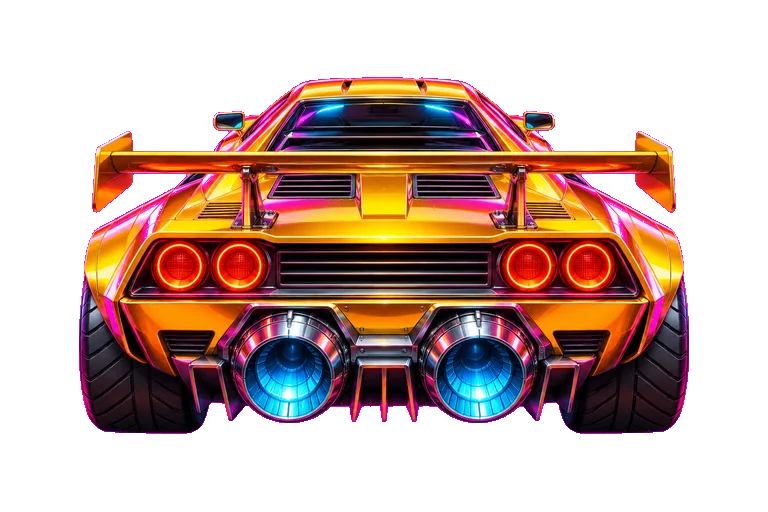
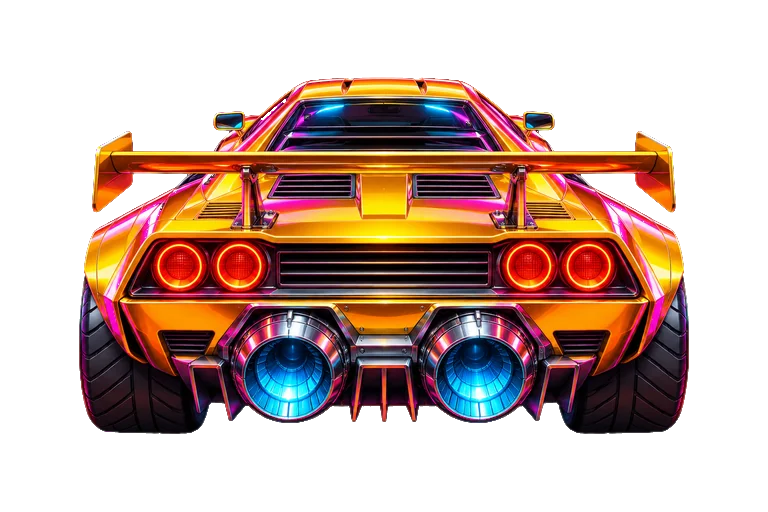
Art : nouveau détourage sans liseré rose (images détourées uniquement) (#3)
finir.py : le magenta caché sous les pixels transparents est remplacé par la couleur
du sujet (le WebP le faisait baver sur le bord), les mélanges sujet + magenta du bord
deviennent transparents, et le détourage passe avant le raccord des bords.
Mêmes noms et mêmes tailles ; les images non détourées ne changent pas.

diff --git a/tools/art/finir.py b/tools/art/finir.py
@@ -1,10 +1,10 @@
 #!/usr/bin/env python3
-"""Kevblast : finit les images brutes de Codex.
+"""Finit les images brutes de Codex.
 Usage : python finir.py PROMPTS_JSON DOSSIER_BRUT DOSSIER_SORTIE [fichier ...]
 - recadre (centre, cover) puis redimensionne à la taille exacte demandée ;
 - si detourer : fond magenta #FF00FF -> transparent (tolérance + bord adouci + suppression du halo rose) ;
 - si raccord: N (dans le JSON) ou RACCORD="nom:N" (environnement), fond les N px des bords gauche/droite (panoramas en boucle) ;
-- enregistre <fichier>.webp qualité 85.
+- enregistre <fichier>.webp qualité 85, ou au chemin « sortie » du JSON (.png accepté, sous-dossiers créés).
 """
 import json, sys
 from pathlib import Path
@@ -37,6 +37,8 @@ def detourer(img):
     for x, y in [(x, 0) for x in range(0, ww, 8)] + [(x, hh - 1) for x in range(0, ww, 8)] + \
                 [(0, y) for y in range(0, hh, 8)] + [(ww - 1, y) for y in range(0, hh, 8)]:
         if proche.getpixel((x, y)) == 255: ImageDraw.floodfill(proche, (x, y), 128)
+    # + les poches de magenta quasi pur enfermées dans le sujet (entre deux pièces, sous un bras…)
+    proche = Image.fromarray(np.where((np.asarray(proche) == 128) | (d < 25), 128, 0).astype(np.uint8))
     fond = np.asarray(proche.point(lambda v: 255 if v == 128 else 0).filter(ImageFilter.MaxFilter(3))) > 0
     alpha = np.where(fond, alpha, 1.0)
     # adoucissement léger du bord
@@ -49,11 +51,13 @@ def detourer(img):
     with np.errstate(divide="ignore", invalid="ignore"):
         rec = (a - (1 - alpha[..., None]) * mag) / np.maximum(alpha[..., None], 1e-3)
     a = np.where(bord[..., None], np.clip(rec, 0, 255), a)
-    # anti-halo : sur les bords, limite r et b au-dessus de g (teinte rose résiduelle)
+    # anti-halo : près du fond (2 px), retire la teinte magenta résiduelle (r et b au-dessus de g)
+    pres = np.asarray(Image.fromarray((fond * 255).astype(np.uint8)).filter(ImageFilter.MaxFilter(5))) > 0
+    zone = pres & (alpha > 0)
     spill = np.minimum(a[..., 0], a[..., 2]) - a[..., 1]
-    lim = bord & (spill > 40)
-    a[..., 0] = np.where(lim, a[..., 0] - (spill - 40) * 0.5, a[..., 0])
-    a[..., 2] = np.where(lim, a[..., 2] - (spill - 40) * 0.5, a[..., 2])
+    lim = zone & (spill > 10)
+    a[..., 0] = np.where(lim, a[..., 0] - (spill - 10), a[..., 0])
+    a[..., 2] = np.where(lim, a[..., 2] - (spill - 10), a[..., 2])
     # bouche les petits trous (pixels du sujet presque magenta) : fermeture 3x3 du masque,
     # et les pixels rebouchés prennent la couleur médiane de leurs voisins opaques
     m = Image.fromarray((alpha * 255).astype(np.uint8))
@@ -64,6 +68,32 @@ def detourer(img):
         med = np.asarray(Image.fromarray(opaque).filter(ImageFilter.MaxFilter(3))).astype(np.float32)
         a[trou] = med[trou]
         alpha = np.maximum(alpha, ferme)
+    # dernière passe : à moins de 3 px de la transparence, un pixel resté presque magenta est du fond
+    d2 = np.sqrt((255 - a[..., 0]) ** 2 + a[..., 1] ** 2 + (255 - a[..., 2]) ** 2)
+    transp = Image.fromarray(((alpha < 0.5) * 255).astype(np.uint8)).filter(ImageFilter.MaxFilter(7))
+    alpha = np.where((np.asarray(transp) > 0) & (d2 < 80) & (np.abs(a[..., 0] - a[..., 2]) < 30), 0.0, alpha)
+    # puis, sur 2 px de bord, les mélanges sujet + magenta (r ≈ b, tous deux nettement au-dessus de g)
+    # deviennent transparents : les griser laisserait un contour sombre sur fond clair
+    bande = (np.asarray(Image.fromarray(((alpha < 0.5) * 255).astype(np.uint8)).filter(ImageFilter.MaxFilter(5))) > 0) & (alpha >= 0.5)
+    sp = np.minimum(a[..., 0], a[..., 2]) - a[..., 1]
+    mel = bande & (np.abs(a[..., 0] - a[..., 2]) < 30) & (sp > 25)
+    alpha = np.where(mel, 0.0, alpha)
+    # sous les pixels transparents, remplace le magenta par la couleur du sujet voisin :
+    # sinon le sous-échantillonnage des couleurs du WebP fait baver un liseré rose sur le bord
+    poids = (alpha > 0.5).astype(np.float32)
+    def flou(x, r):  # flou boîte séparable (numpy), rayon r
+        for ax in (0, 1):
+            p_ = np.pad(x, [(r + 1, r) if i == ax else (0, 0) for i in range(2)], mode="edge")
+            c = np.cumsum(p_, axis=ax)
+            x = (np.take(c, range(2 * r + 1, c.shape[ax]), axis=ax) - np.take(c, range(0, c.shape[ax] - 2 * r - 1), axis=ax)) / (2 * r + 1)
+        return x
+    for r in (2, 6, 18):
+        wsum = flou(poids, r)
+        if (wsum > 1e-4).any():
+            for c in range(3):
+                col = flou(a[..., c] * poids, r) / np.maximum(wsum, 1e-4)
+                a[..., c] = np.where((alpha <= 0.5) & (wsum > 1e-4) & (poids == 0), col, a[..., c])
+            poids = np.maximum(poids, (wsum > 1e-4).astype(np.float32) * (alpha <= 0.5))
     out = np.dstack([np.clip(a, 0, 255), alpha * 255]).astype(np.uint8)
     return Image.fromarray(out)
 
@@ -85,11 +115,14 @@ def main():
         if not src.exists(): print("absent", src); continue
         w, h = map(int, im["taille"].split("x"))
         img = cover(Image.open(src).convert("RGB"), w, h)
+        # détourer d'abord : fondre les bords avant mélangerait le magenta au sujet
+        if im.get("detourer"): img = detourer(img)
         bande = im.get("raccord") or RACCORD.get(im["fichier"])
         if bande: img = raccorder(img, int(bande))
-        if im.get("detourer"): img = detourer(img)
-        dst = Path(sortie) / f"{im['fichier']}.webp"
-        img.save(dst, "WEBP", quality=85, method=6)
+        dst = Path(sortie) / im.get("sortie", f"{im['fichier']}.webp")
+        dst.parent.mkdir(parents=True, exist_ok=True)
+        if dst.suffix == ".png": img.save(dst, "PNG", optimize=True)
+        else: img.save(dst, "WEBP", quality=85, method=6)
         print(f"{dst.name} {w}x{h} {dst.stat().st_size // 1024} Ko")
 
 if __name__ == "__main__":
